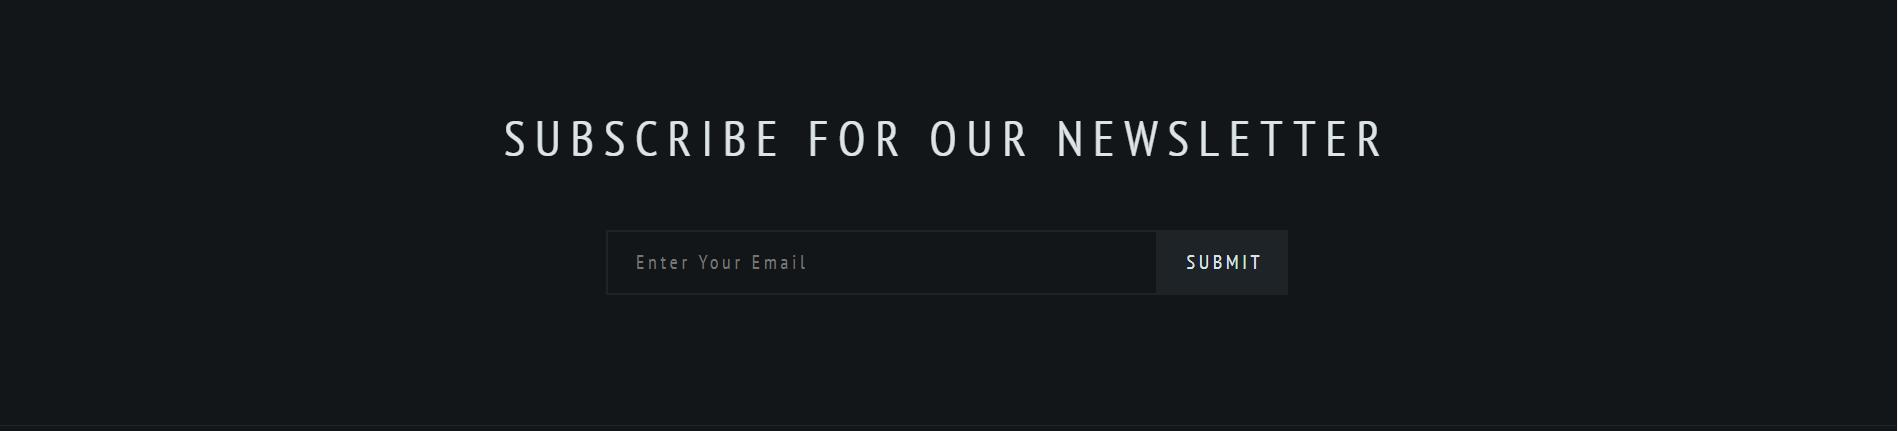
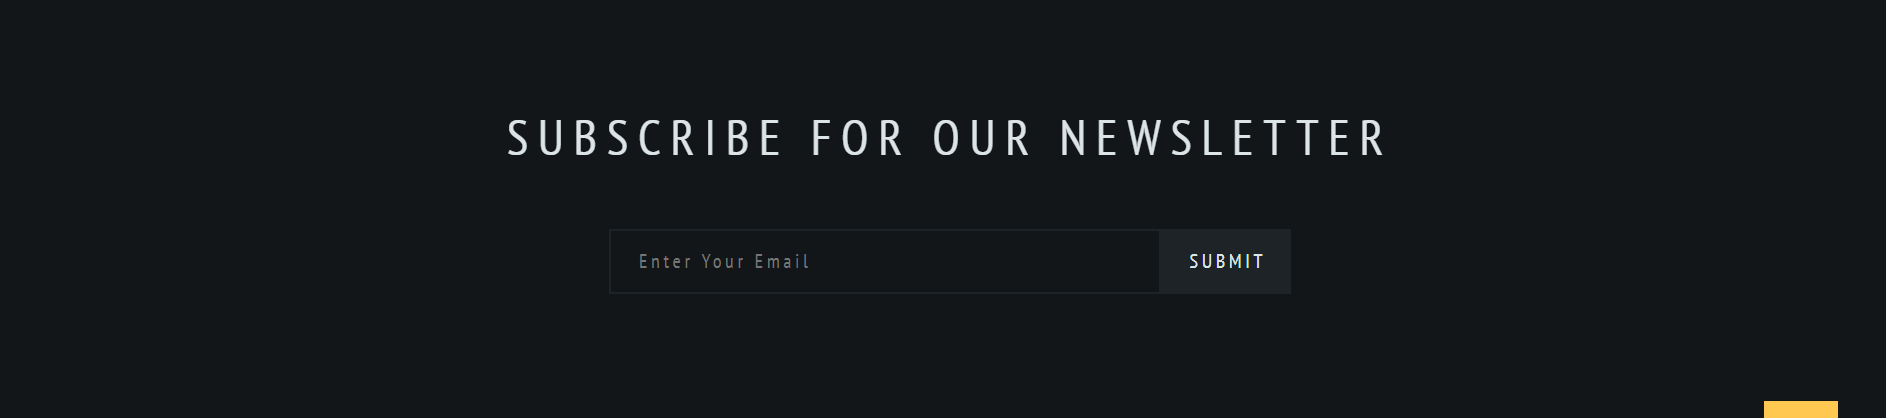
update fix module
v1

diff --git a/project_nhahang_vincent_thay_giao/04/less/04.less b/project_nhahang_vincent_thay_giao/04/less/04.less
@@ -4,30 +4,30 @@
   background: #121618;
   color: #dce4e8;
   position: relative;
+  text-align: center;
   .fontz{
     font-family: "PT Sans Narrow";
   } 
       .tieudesp{
           .fontz;
           font-size: 18px;
-          margin-top: 15px;
-          text-align: center;
+          margin-top: 15px;         
           line-height: 26px;
           letter-spacing: 3px;
           font-weight: 600;
           padding: .5em 0;
           margin: 0;
           cursor:pointer;
+          width: 100%;
         }
         .tieudesp:hover {
           color: orange;
         }
         .giatien {
-          .fontz;
-          text-align: center;
+          .fontz;       
           font-size: 24px;
           letter-spacing: 3px;
-          font-weight: 400;
+          font-weight: 300;
           cursor:pointer;
           margin-bottom: 52px;
         }
@@ -36,7 +36,6 @@
         }
         .tieude{
           .fontz;
-          text-align: center;
            font-size: 32px;
            line-height: 32px;
            letter-spacing: 6px;

diff --git a/project_nhahang_vincent_thay_giao/13/less/13.less b/project_nhahang_vincent_thay_giao/13/less/13.less
@@ -28,18 +28,15 @@
         }
         a{
             text-decoration: none;
-        }
-        img{
-            border-radius: 50%;
-            width: 80px;
-            height: 80px;
-            float: none;
-            margin: 0;
-            top: 0;
-        }
-        .product_title:hover{
-            color: orange;
-        }
+            img{
+                border-radius: 50%;
+                width: 80px;
+                height: 80px;
+                float: none;
+                margin: 0;
+                top: 0;
+            }
+        }       
         .product_title{
             padding: 13px 0 0 30px;
             margin-bottom: 3px;
@@ -51,15 +48,18 @@
             color:#dce4e8;
             cursor: pointer;
         }
+        .product_title:hover{
+            color: #ffc851;
+        }
         .price{
             margin-left: 32px;
             font-size: 14px;
             line-height: 28px;
-    }
+        }
     }
     .row {
         margin-right: -15px;
         margin-left: -5px;
-}
+    }
     
 }

diff --git a/project_nhahang_vincent_thay_giao/04/css/04.css b/project_nhahang_vincent_thay_giao/04/css/04.css
@@ -4,6 +4,7 @@
   background: #121618;
   color: #dce4e8;
   position: relative;
+  text-align: center;
 }
 .type-04 .fontz {
   font-family: "PT Sans Narrow";
@@ -12,23 +13,22 @@
   font-family: "PT Sans Narrow";
   font-size: 18px;
   margin-top: 15px;
-  text-align: center;
   line-height: 26px;
   letter-spacing: 3px;
   font-weight: 600;
   padding: .5em 0;
   margin: 0;
   cursor: pointer;
+  width: 100%;
 }
 .type-04 .tieudesp:hover {
   color: orange;
 }
 .type-04 .giatien {
   font-family: "PT Sans Narrow";
-  text-align: center;
   font-size: 24px;
   letter-spacing: 3px;
-  font-weight: 400;
+  font-weight: 300;
   cursor: pointer;
   margin-bottom: 52px;
 }
@@ -37,7 +37,6 @@
 }
 .type-04 .tieude {
   font-family: "PT Sans Narrow";
-  text-align: center;
   font-size: 32px;
   line-height: 32px;
   letter-spacing: 6px;

diff --git a/project_nhahang_vincent_thay_giao/13/css/13.css b/project_nhahang_vincent_thay_giao/13/css/13.css
@@ -31,16 +31,13 @@
 .type-13 ul a {
   text-decoration: none;
 }
-.type-13 ul img {
+.type-13 ul a img {
   border-radius: 50%;
   width: 80px;
   height: 80px;
   float: none;
   margin: 0;
   top: 0;
-}
-.type-13 ul .product_title:hover {
-  color: orange;
 }
 .type-13 ul .product_title {
   padding: 13px 0 0 30px;
@@ -52,6 +49,9 @@
   text-transform: uppercase;
   color: #dce4e8;
   cursor: pointer;
+}
+.type-13 ul .product_title:hover {
+  color: #ffc851;
 }
 .type-13 ul .price {
   margin-left: 32px;

diff --git a/project_nhahang_vincent_thay_giao/09/less/09.less b/project_nhahang_vincent_thay_giao/09/less/09.less
@@ -21,13 +21,13 @@ footer{
                 font-size: 13px;
                 opacity: 0.4;
             }
-    }
-    ul{
+    }   
+    .listf{
+        ul{
         display: block;       
         margin:0;
         padding:0;
-    }
-    .listf{
+        }
         li{
             list-style:none;
             display: inline-block;
@@ -42,7 +42,7 @@ footer{
                 }   
     }   
     li a:hover{
-        color: orange;
+        color: #ffc851;
     }
     img{
         width: 12%;

diff --git a/project_nhahang_vincent_thay_giao/09/css/09.css b/project_nhahang_vincent_thay_giao/09/css/09.css
@@ -23,7 +23,7 @@ footer {
   font-size: 13px;
   opacity: 0.4;
 }
-.type-09 ul {
+.type-09 .listf ul {
   display: block;
   margin: 0;
   padding: 0;
@@ -41,7 +41,7 @@ footer {
   color: #ffffff;
 }
 .type-09 li a:hover {
-  color: orange;
+  color: #ffc851;
 }
 .type-09 img {
   width: 12%;

diff --git a/project_nhahang_vincent_thay_giao/08/less/08.less b/project_nhahang_vincent_thay_giao/08/less/08.less
@@ -43,4 +43,14 @@
     .dangkymail{
         padding-bottom:55px;
     }
+    .dangki:hover{
+        color:black;
+        background:#ffc851;
+    }
 }
+@media only screen and (max-width: 991px) {
+    .type-08 form input[type=submit]{
+    bottom: 21.5%;
+    right: 23.9%;
+    }
+    }

diff --git a/project_nhahang_vincent_thay_giao/08/css/08.css b/project_nhahang_vincent_thay_giao/08/css/08.css
@@ -45,3 +45,13 @@
 .type-08 .dangkymail {
   padding-bottom: 55px;
 }
+.type-08 .dangki:hover {
+  color: black;
+  background: #ffc851;
+}
+@media only screen and (max-width: 991px) {
+  .type-08 form input[type=submit] {
+    bottom: 21.5%;
+    right: 23.9%;
+  }
+}

diff --git a/project_nhahang_vincent_thay_giao/12/less/12.less b/project_nhahang_vincent_thay_giao/12/less/12.less
@@ -26,6 +26,7 @@
         .bao_products{
             position: relative;
             margin-bottom: 80px;
+            
             .img_product{
                 position: absolute;
                 top: -58px;

diff --git a/project_nhahang_vincent_thay_giao/08/08-content.php b/project_nhahang_vincent_thay_giao/08/08-content.php
@@ -15,7 +15,7 @@ $url_path = str_replace('\\', '/', $url_path);
                 </div>
                 <form action="" name="dangkymail" class="dangkymail" enctype="multipart/form-data" accept-charset="UTF-8" method="post">
                     <input class="input" type="text" name="ten" placeholder="Enter your email..." required="">
-                    <input type="submit" value="Đăng Ký">
+                    <input type="submit" value="Đăng Ký" class="dangki">
                 </form>
             </div>
         </div>
